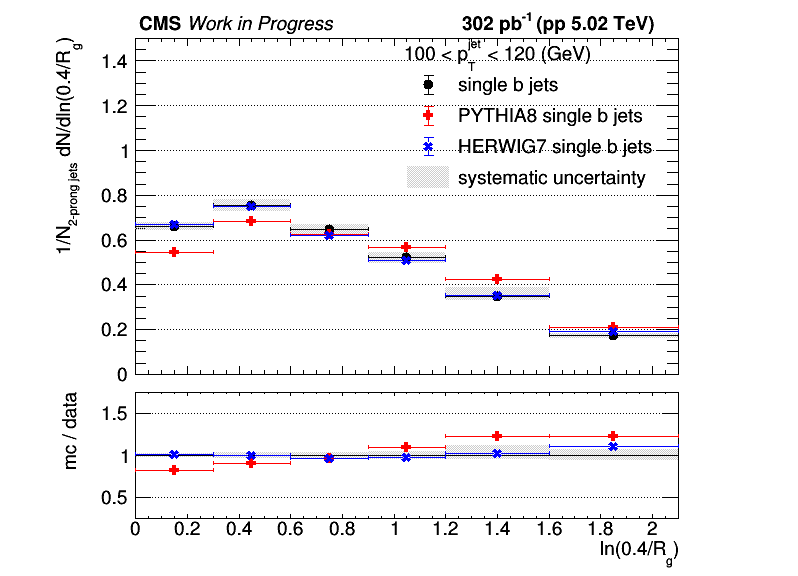
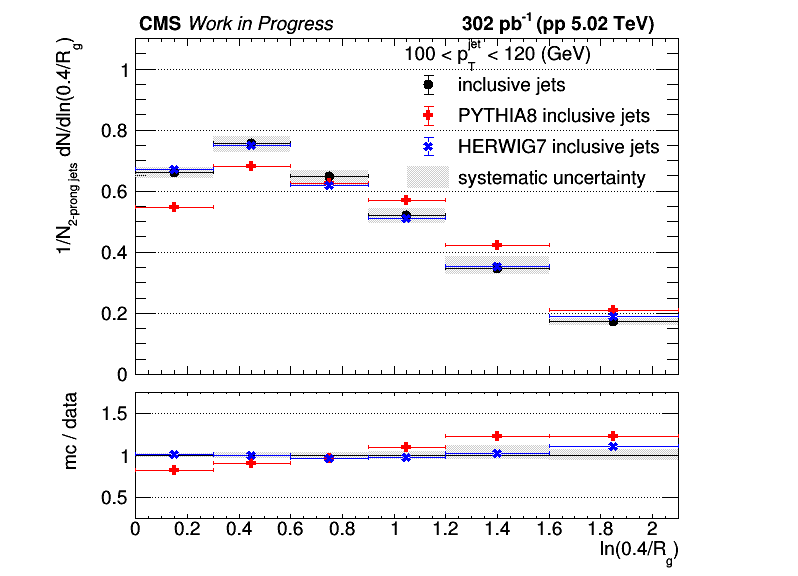
fix legend for inclusive jets in data vs mc

diff --git a/myMacros/C106X/draw_data_vs_mc.C b/myMacros/C106X/draw_data_vs_mc.C
@@ -76,7 +76,7 @@ void draw_data_vs_mc(TString observable="zpt")
         h->GetXaxis()->SetRange(ibin_x_min, ibin_x_max);
         h->Scale(1/h->Integral(ibin_x_min, ibin_x_max), "width");
         if (observable=="zg") h->GetYaxis()->SetRangeUser(0, 6.);
-        else if (observable=="rg") h->GetYaxis()->SetRangeUser(0, 1.5);
+        else if (observable=="rg") h->GetYaxis()->SetRangeUser(0, 1.1);
         else if (observable=="zpt") h->GetYaxis()->SetRangeUser(0, 4.);
         h->GetYaxis()->SetTitle(ylabel);
         h->GetYaxis()->SetTitleOffset(1.5);
@@ -191,9 +191,15 @@ void draw_data_vs_mc(TString observable="zpt")
     leg->SetBorderSize(0);
     leg->SetFillStyle(0);
     leg->SetHeader(Form("%.0f < p_{T}^{jet} < %.0f (GeV)", min_pt, max_pt));
-    leg->AddEntry(h_data_1d, "single b jets", "pe1");
-    leg->AddEntry(h_pythia_1d, "PYTHIA8 single b jets", "pe1");
-    leg->AddEntry(h_herwig_1d, "HERWIG7 single b jets", "pe1");
+    if (label.Contains("inclusive")) {
+        leg->AddEntry(h_data_1d, "inclusive jets", "pe1");
+        leg->AddEntry(h_pythia_1d, "PYTHIA8 inclusive jets", "pe1");
+        leg->AddEntry(h_herwig_1d, "HERWIG7 inclusive jets", "pe1");
+    } else {
+        leg->AddEntry(h_data_1d, "single b jets", "pe1");
+        leg->AddEntry(h_pythia_1d, "PYTHIA8 single b jets", "pe1");
+        leg->AddEntry(h_herwig_1d, "HERWIG7 single b jets", "pe1");
+    }
     leg->AddEntry(gr_unc, "systematic uncertainty", "f");
 
     for (auto h : {
